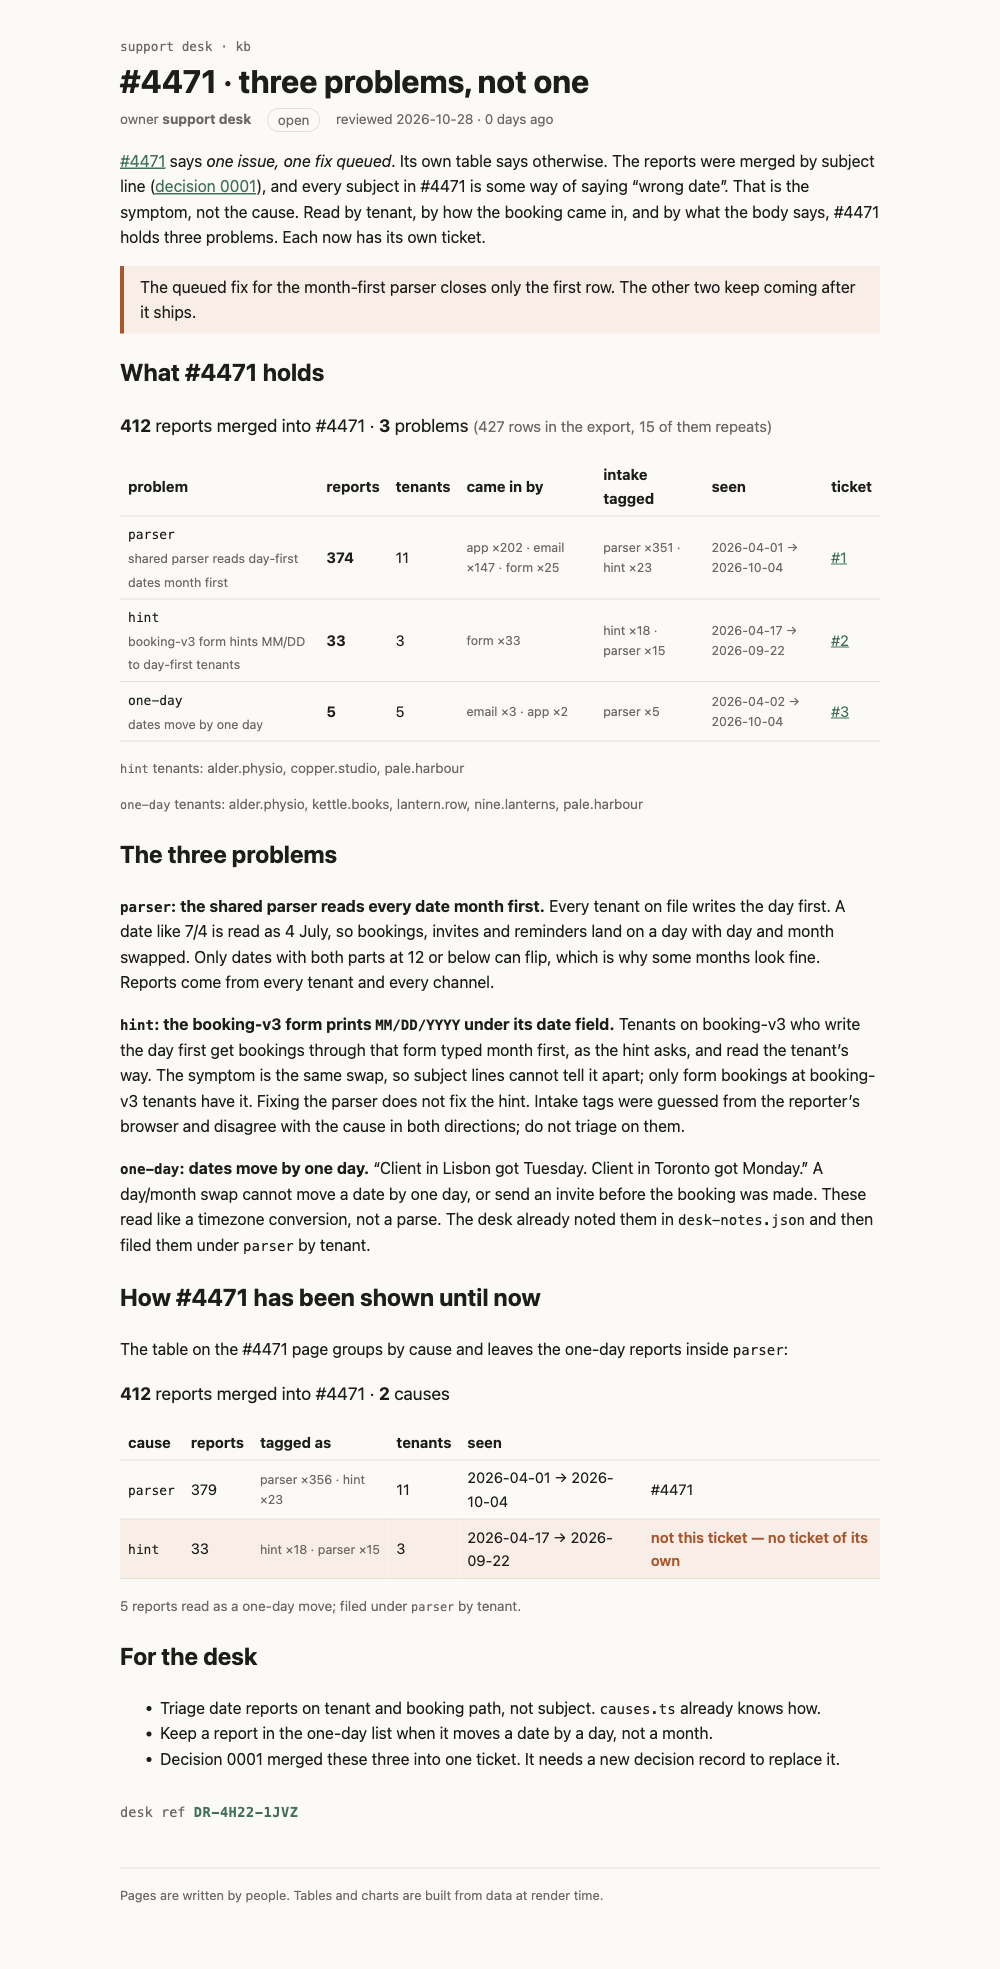
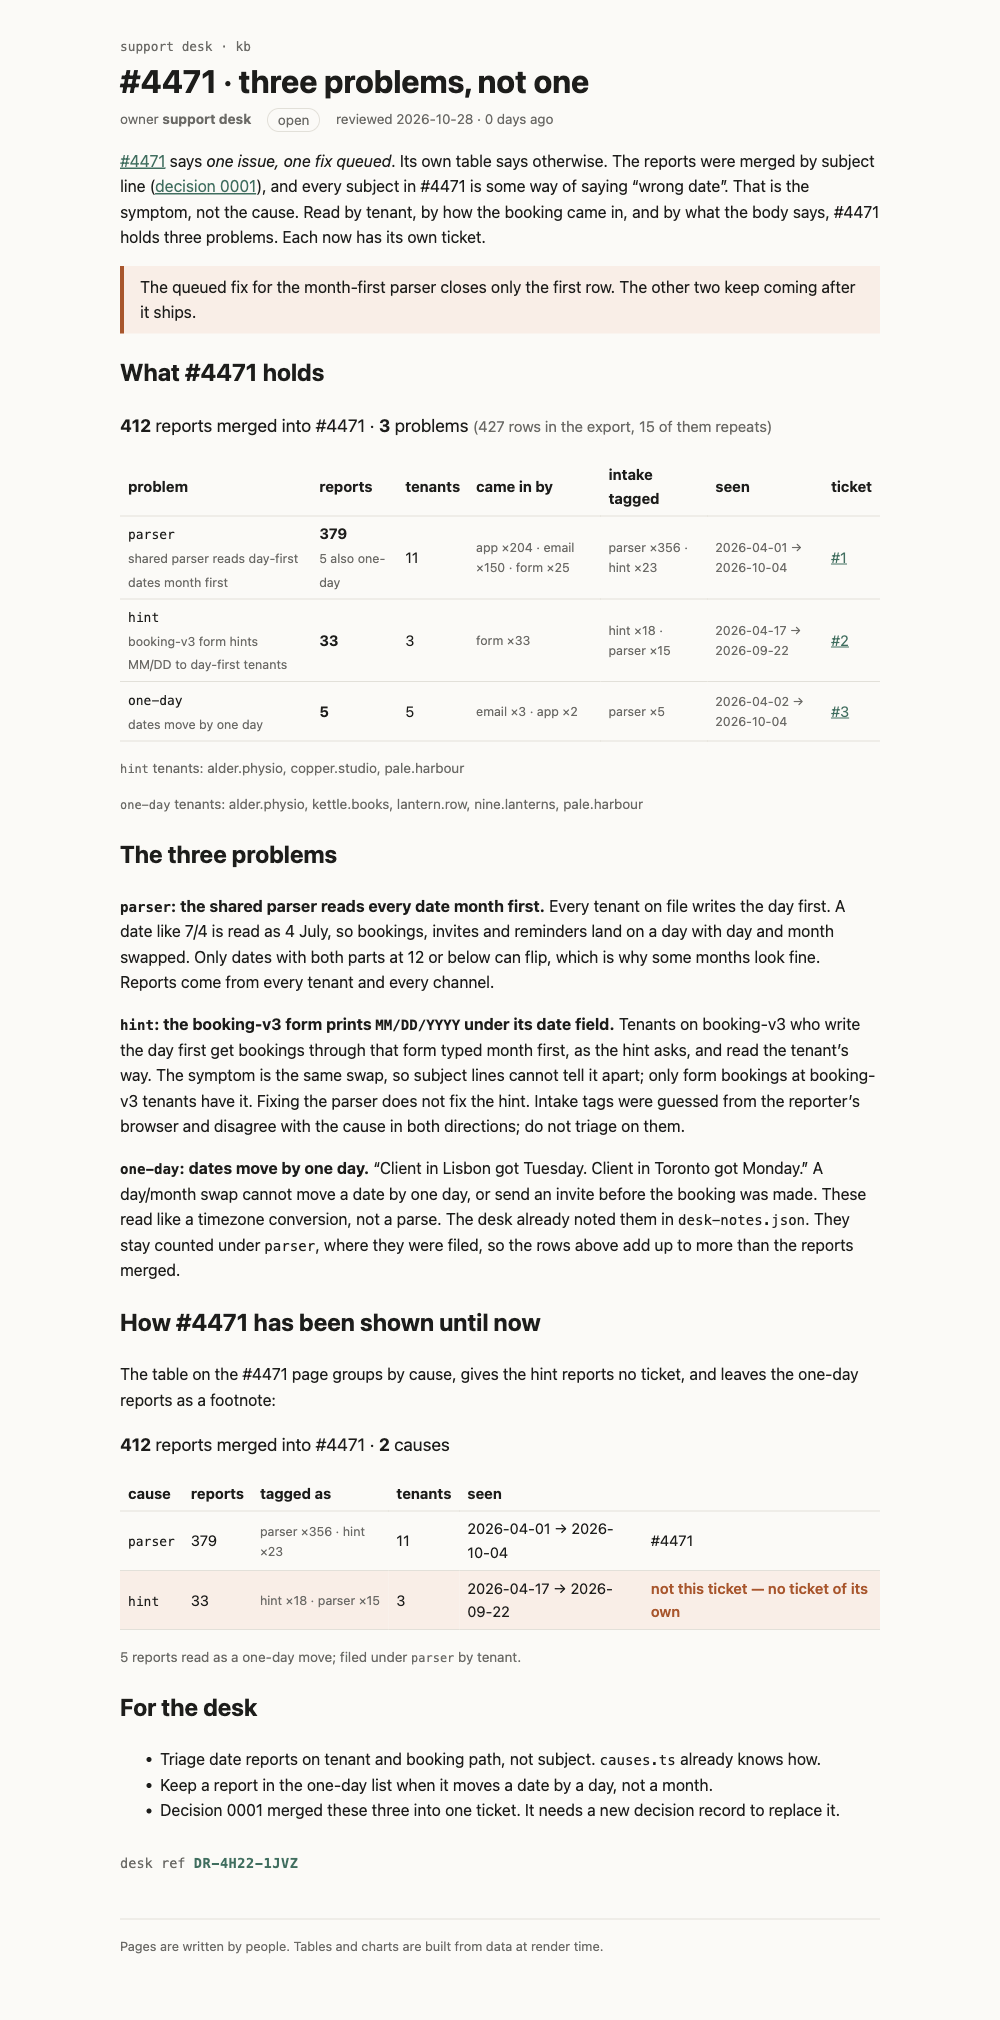
kb: count one-day reports where they are filed, as the desk does

diff --git a/rendered/kb-incidents-4471-problems.html b/rendered/kb-incidents-4471-problems.html
@@ -30,7 +30,7 @@ reports were merged by subject line (<a href="/kb/decisions/0001-dedupe-by-subje
 every subject in #4471 is some way of saying “wrong date”. That is the symptom, not the cause.
 Read by tenant, by how the booking came in, and by what the body says, #4471 holds three problems.
 Each now has its own ticket.</p> <aside class="warn svelte-17bri61"><!---->The queued fix for the month-first parser closes only the first row. The other two keep coming
-after it ships.<!----></aside><!----> <h2>What #4471 holds</h2> <p class="sum svelte-1op6c6"><strong>412</strong> reports merged into #4471 · <strong>3</strong> problems <span class="muted svelte-1op6c6">(427 rows in the export, 15 of them repeats)</span></p> <table><thead><tr><th>problem</th><th>reports</th><th>tenants</th><th>came in by</th><th>intake tagged</th><th>seen</th><th>ticket</th></tr></thead><tbody><!--[--><tr><td><code>parser</code><br/><span class="muted svelte-1op6c6">shared parser reads day-first dates month first</span></td><td><strong>374</strong></td><td>11</td><td class="muted svelte-1op6c6">app ×202 · email ×147 · form ×25</td><td class="muted svelte-1op6c6">parser ×351 · hint ×23</td><td class="muted svelte-1op6c6">2026-04-01 → 2026-10-04</td><td><!--[0--><a href="https://github.com/BorislavStefanov31/support-kb-4471/issues/1">#1</a><!--]--></td></tr><tr><td><code>hint</code><br/><span class="muted svelte-1op6c6">booking-v3 form hints MM/DD to day-first tenants</span></td><td><strong>33</strong></td><td>3</td><td class="muted svelte-1op6c6">form ×33</td><td class="muted svelte-1op6c6">hint ×18 · parser ×15</td><td class="muted svelte-1op6c6">2026-04-17 → 2026-09-22</td><td><!--[0--><a href="https://github.com/BorislavStefanov31/support-kb-4471/issues/2">#2</a><!--]--></td></tr><tr><td><code>one-day</code><br/><span class="muted svelte-1op6c6">dates move by one day</span></td><td><strong>5</strong></td><td>5</td><td class="muted svelte-1op6c6">email ×3 · app ×2</td><td class="muted svelte-1op6c6">parser ×5</td><td class="muted svelte-1op6c6">2026-04-02 → 2026-10-04</td><td><!--[0--><a href="https://github.com/BorislavStefanov31/support-kb-4471/issues/3">#3</a><!--]--></td></tr><!--]--></tbody></table> <!--[--><p class="muted svelte-1op6c6"><code>hint</code> tenants: alder.physio, copper.studio, pale.harbour</p><p class="muted svelte-1op6c6"><code>one-day</code> tenants: alder.physio, kettle.books, lantern.row, nine.lanterns, pale.harbour</p><!--]--><!----> <h2>The three problems</h2> <p><strong><code>parser</code>: the shared parser reads every date month first.</strong> Every tenant on file writes the day
+after it ships.<!----></aside><!----> <h2>What #4471 holds</h2> <p class="sum svelte-1op6c6"><strong>412</strong> reports merged into #4471 · <strong>3</strong> problems <span class="muted svelte-1op6c6">(427 rows in the export, 15 of them repeats)</span></p> <table><thead><tr><th>problem</th><th>reports</th><th>tenants</th><th>came in by</th><th>intake tagged</th><th>seen</th><th>ticket</th></tr></thead><tbody><!--[--><tr><td><code>parser</code><br/><span class="muted svelte-1op6c6">shared parser reads day-first dates month first</span></td><td><strong>379</strong><!--[0--><br/><span class="muted svelte-1op6c6">5 also one-day</span><!--]--></td><td>11</td><td class="muted svelte-1op6c6">app ×204 · email ×150 · form ×25</td><td class="muted svelte-1op6c6">parser ×356 · hint ×23</td><td class="muted svelte-1op6c6">2026-04-01 → 2026-10-04</td><td><!--[0--><a href="https://github.com/BorislavStefanov31/support-kb-4471/issues/1">#1</a><!--]--></td></tr><tr><td><code>hint</code><br/><span class="muted svelte-1op6c6">booking-v3 form hints MM/DD to day-first tenants</span></td><td><strong>33</strong><!--[-1--><!--]--></td><td>3</td><td class="muted svelte-1op6c6">form ×33</td><td class="muted svelte-1op6c6">hint ×18 · parser ×15</td><td class="muted svelte-1op6c6">2026-04-17 → 2026-09-22</td><td><!--[0--><a href="https://github.com/BorislavStefanov31/support-kb-4471/issues/2">#2</a><!--]--></td></tr><tr><td><code>one-day</code><br/><span class="muted svelte-1op6c6">dates move by one day</span></td><td><strong>5</strong><!--[-1--><!--]--></td><td>5</td><td class="muted svelte-1op6c6">email ×3 · app ×2</td><td class="muted svelte-1op6c6">parser ×5</td><td class="muted svelte-1op6c6">2026-04-02 → 2026-10-04</td><td><!--[0--><a href="https://github.com/BorislavStefanov31/support-kb-4471/issues/3">#3</a><!--]--></td></tr><!--]--></tbody></table> <!--[--><p class="muted svelte-1op6c6"><code>hint</code> tenants: alder.physio, copper.studio, pale.harbour</p><p class="muted svelte-1op6c6"><code>one-day</code> tenants: alder.physio, kettle.books, lantern.row, nine.lanterns, pale.harbour</p><!--]--><!----> <h2>The three problems</h2> <p><strong><code>parser</code>: the shared parser reads every date month first.</strong> Every tenant on file writes the day
 first. A date like 7/4 is read as 4 July, so bookings, invites and reminders land on a day with
 day and month swapped. Only dates with both parts at 12 or below can flip, which is why some
 months look fine. Reports come from every tenant and every channel.</p> <p><strong><code>hint</code>: the booking-v3 form prints <code>MM/DD/YYYY</code> under its date field.</strong> Tenants on booking-v3
@@ -40,7 +40,9 @@ form bookings at booking-v3 tenants have it. Fixing the parser does not fix the 
 were guessed from the reporter’s browser and disagree with the cause in both directions; do not
 triage on them.</p> <p><strong><code>one-day</code>: dates move by one day.</strong> “Client in Lisbon got Tuesday. Client in Toronto got Monday.”
 A day/month swap cannot move a date by one day, or send an invite before the booking was made.
-These read like a timezone conversion, not a parse. The desk already noted them in <code>desk-notes.json</code> and then filed them under <code>parser</code> by tenant.</p> <h2>How #4471 has been shown until now</h2> <p>The table on the #4471 page groups by cause and leaves the one-day reports inside <code>parser</code>:</p> <p class="sum svelte-12oyimm"><strong>412</strong> reports merged into #4471 · <strong>2</strong> causes</p> <table><thead><tr><th>cause</th><th>reports</th><th>tagged as</th><th>tenants</th><th>seen</th><th></th></tr></thead><tbody><!--[--><tr class="svelte-12oyimm"><td class="svelte-12oyimm"><code>parser</code></td><td class="svelte-12oyimm">379</td><td class="tags svelte-12oyimm">parser ×356 · hint ×23</td><td class="svelte-12oyimm">11</td><td class="svelte-12oyimm">2026-04-01 → 2026-10-04</td><td class="svelte-12oyimm">#4471</td></tr><tr class="svelte-12oyimm wrong"><td class="svelte-12oyimm"><code>hint</code></td><td class="svelte-12oyimm">33</td><td class="tags svelte-12oyimm">hint ×18 · parser ×15</td><td class="svelte-12oyimm">3</td><td class="svelte-12oyimm">2026-04-17 → 2026-09-22</td><td class="svelte-12oyimm">not this ticket — no ticket of its own</td></tr><!--]--></tbody></table> <!--[--><!--[0--><p class="note svelte-12oyimm">5 reports read as a one-day move; filed under <code>parser</code> by tenant.</p><!--]--><!--[-1--><!--]--><!--]--><!----> <h2>For the desk</h2> <ul><li>Triage date reports on tenant and booking path, not subject. <code>causes.ts</code> already knows how.</li> <li>Keep a report in the one-day list when it moves a date by a day, not a month.</li> <li>Decision 0001 merged these three into one ticket. It needs a new decision record to replace it.</li></ul> <!--[0--><p class="stamp svelte-1280m42">desk ref <b class="svelte-1280m42">DR-4H22-1JVZ</b></p><!--]--><!----><!----></main> <footer class="svelte-e2jw2j">Pages are written by people. Tables and charts are built from data at render time.</footer></div><!--]--><!----><!--]--><!--]--> <!--[-1--><!--]--><!--]-->
+These read like a timezone conversion, not a parse. The desk already noted them in <code>desk-notes.json</code>. They stay counted under <code>parser</code>, where they were filed, so the rows above add
+up to more than the reports merged.</p> <h2>How #4471 has been shown until now</h2> <p>The table on the #4471 page groups by cause, gives the hint reports no ticket, and leaves the one-day
+reports as a footnote:</p> <p class="sum svelte-12oyimm"><strong>412</strong> reports merged into #4471 · <strong>2</strong> causes</p> <table><thead><tr><th>cause</th><th>reports</th><th>tagged as</th><th>tenants</th><th>seen</th><th></th></tr></thead><tbody><!--[--><tr class="svelte-12oyimm"><td class="svelte-12oyimm"><code>parser</code></td><td class="svelte-12oyimm">379</td><td class="tags svelte-12oyimm">parser ×356 · hint ×23</td><td class="svelte-12oyimm">11</td><td class="svelte-12oyimm">2026-04-01 → 2026-10-04</td><td class="svelte-12oyimm">#4471</td></tr><tr class="svelte-12oyimm wrong"><td class="svelte-12oyimm"><code>hint</code></td><td class="svelte-12oyimm">33</td><td class="tags svelte-12oyimm">hint ×18 · parser ×15</td><td class="svelte-12oyimm">3</td><td class="svelte-12oyimm">2026-04-17 → 2026-09-22</td><td class="svelte-12oyimm">not this ticket — no ticket of its own</td></tr><!--]--></tbody></table> <!--[--><!--[0--><p class="note svelte-12oyimm">5 reports read as a one-day move; filed under <code>parser</code> by tenant.</p><!--]--><!--[-1--><!--]--><!--]--><!----> <h2>For the desk</h2> <ul><li>Triage date reports on tenant and booking path, not subject. <code>causes.ts</code> already knows how.</li> <li>Keep a report in the one-day list when it moves a date by a day, not a month.</li> <li>Decision 0001 merged these three into one ticket. It needs a new decision record to replace it.</li></ul> <!--[0--><p class="stamp svelte-1280m42">desk ref <b class="svelte-1280m42">DR-4H22-1JVZ</b></p><!--]--><!----><!----></main> <footer class="svelte-e2jw2j">Pages are written by people. Tables and charts are built from data at render time.</footer></div><!--]--><!----><!--]--><!--]--> <!--[-1--><!--]--><!--]-->
 			
 			
 		</div>

diff --git a/src/lib/kb/problems.ts b/src/lib/kb/problems.ts
@@ -1,13 +1,13 @@
 // What a merged ticket really holds: one row per problem, not per subject line.
-// causes.ts places a report by tenant and channel; the desk's own reading (desk-notes.json) takes out
-// the reports that describe a one-day move, which no day/month swap can produce.
+// causes.ts places a report by tenant and channel, and the desk counts it there. The desk's own reading
+// (desk-notes.json) adds the reports that describe a one-day move, which no day/month swap can produce:
+// they get a row of their own and stay counted where they are filed, as the desk counts them.
 import { causeOf, uniqueById, type Cause, type Report, type Tenant } from '#lib/kb/causes';
 
 export type Problem = Cause | 'one-day' | 'unplaced';
 
-export function problemOf(r: Report, t: Tenant | undefined, oneDay: readonly string[]): Problem {
-  if (oneDay.includes(r.id)) return 'one-day';
-  return causeOf(r, t) ?? 'unplaced';
+export function problemsOf(r: Report, t: Tenant | undefined, oneDay: readonly string[]): Problem[] {
+  return [causeOf(r, t) ?? 'unplaced', ...(oneDay.includes(r.id) ? (['one-day'] as const) : [])];
 }
 
 export type ProblemGroup = {
@@ -16,6 +16,8 @@ export type ProblemGroup = {
   // What intake tagged these reports as: tag → count.
   taggedAs: Record<string, number>;
   tenants: string[];
+  // How many of these reports the desk also read as a one-day move.
+  oneDay: number;
   channels: Record<string, number>;
   firstSeen: string;
   lastSeen: string;
@@ -32,8 +34,7 @@ export function groupByProblem(
   const merged = uniqueById(reports).filter((r) => r.mergedInto === ticket);
   const byProblem = new Map<Problem, Report[]>();
   for (const r of merged) {
-    const p = problemOf(r, tenantOf(r), oneDay);
-    byProblem.set(p, [...(byProblem.get(p) ?? []), r]);
+    for (const p of problemsOf(r, tenantOf(r), oneDay)) byProblem.set(p, [...(byProblem.get(p) ?? []), r]);
   }
   const groups = [...byProblem.entries()]
     .map(([problem, rs]) => {
@@ -43,6 +44,7 @@ export function groupByProblem(
         reports: rs,
         taggedAs: tally(rs.map((r) => r.meta.intakeTag)),
         tenants: [...new Set(rs.map((r) => r.tenant))].sort(),
+        oneDay: problem === 'one-day' ? 0 : rs.filter((r) => oneDay.includes(r.id)).length,
         channels: tally(rs.map((r) => r.channel)),
         firstSeen: days[0],
         lastSeen: days[days.length - 1],

diff --git a/src/lib/kb/ProblemTable.svelte b/src/lib/kb/ProblemTable.svelte
@@ -39,7 +39,7 @@
     {#each view.groups as g (g.problem)}
       <tr>
         <td><code>{g.problem}</code><br /><span class="muted">{NAMES[g.problem]}</span></td>
-        <td><strong>{g.reports.length}</strong></td>
+        <td><strong>{g.reports.length}</strong>{#if g.oneDay}<br /><span class="muted">{g.oneDay} also one-day</span>{/if}</td>
         <td>{g.tenants.length}</td>
         <td class="muted">{list(g.channels)}</td>
         <td class="muted">{list(g.taggedAs)}</td>
